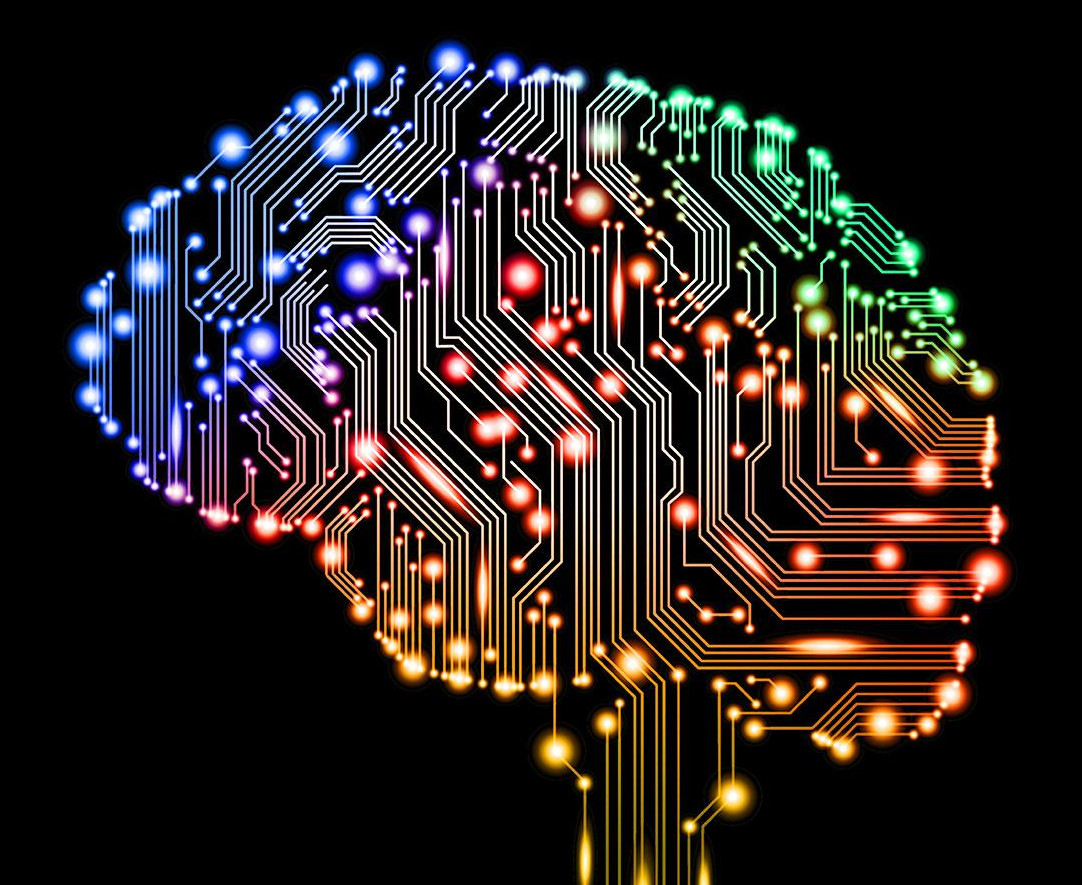
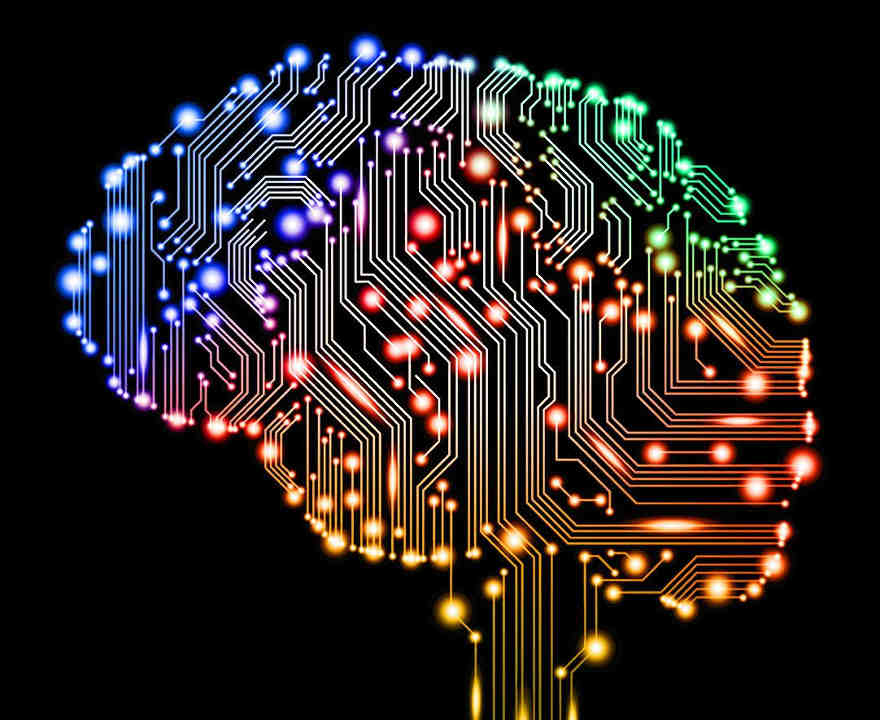
improving site load time by reducing image sizes

diff --git a/index.html b/index.html
@@ -106,7 +106,7 @@
 						</section>
 
 						<section class="spotlight">
-							<div class="image"><a href="compviz.html"><img src="images/compviz.png" alt="Computer Vision" /></a></div><div class="content">
+							<div class="image"><a href="compviz.html"><img src="images/compviz.jpg" alt="Computer Vision" /></a></div><div class="content">
 								<h2><a href="compviz.html">Computer Vision</a></h2>
 								<p>Advanced computer vision algorithms are one of the key technologies enabling today's robotic breakthroughs. As the applications for robots grow in both number and complexity, many of the core challenges will be related to sensing and perception, fields I'm profoundy interested in!</p>
 							</div>
